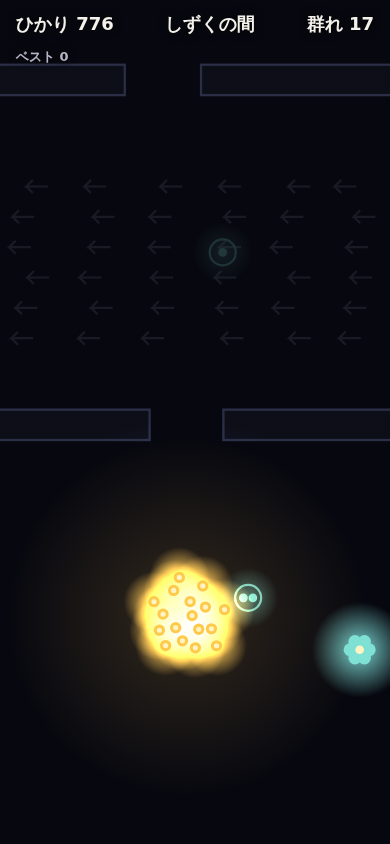
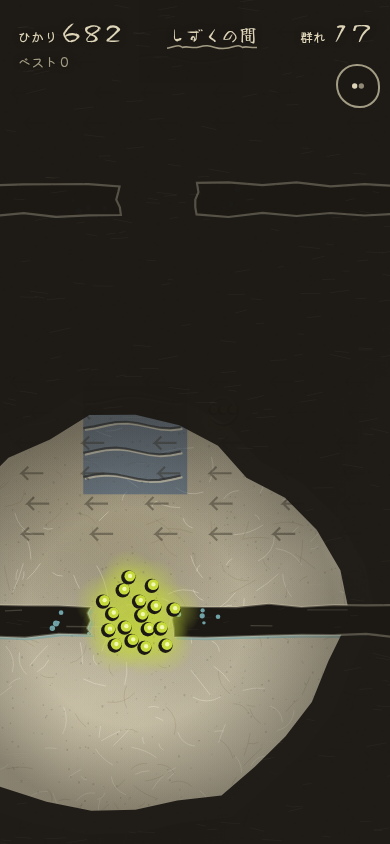
Fix HUD numeral legibility (design review blocker); refresh release pack after redesign
Claude-Session: https://claude.ai/code/session_018WYAWhY1CMpzjTxmQY8aNN

diff --git a/game/index.html b/game/index.html
@@ -32,13 +32,13 @@
   .paper button:focus-visible { outline-color:var(--shu); }
   /* HUD: 上端は常に墨の中。紙色の字 */
   .hud { display:flex; justify-content:space-between; align-items:baseline; padding:12px 18px 0; font-size:13px; text-shadow:0 0 6px var(--sumi), 0 0 2px var(--sumi); }
-  .hud .n { font-family:var(--f-disp); font-size:26px; font-variant-numeric:tabular-nums; margin-left:4px; }
+  .hud .n { font-family:var(--f-body); font-weight:500; font-size:24px; font-variant-numeric:tabular-nums; margin-left:4px; }
   #layer { font-family:var(--f-disp); font-size:18px; padding-bottom:3px; background:var(--squig) repeat-x bottom/60px 6px; }
   body:not(.playing) #hud { visibility:hidden; }
   .sub { font-size:13px; color:var(--kozo-d); }
   .hud.sub { padding-top:2px; }
   .paper .sub { color:var(--sumi-l); }
-  #t-best { font-family:var(--f-disp); font-size:16px; margin-top:2px; }
+  #t-best { font-family:var(--f-body); font-weight:500; font-size:16px; margin-top:2px; }
   /* ボタン: 通常は字だけ（筆の下線）。主役の1つだけが蛍色の版。 */
   .btn { font:inherit; font-size:17px; padding:8px 12px; border:0; background:var(--squig) repeat-x bottom 6px center/60px 6px; color:inherit; border-radius:0; }
   .paper .btn { background-image:var(--squig-k); }
@@ -81,12 +81,12 @@
   .tgl { min-width:72px !important; min-height:44px; border-radius:4px 10px 5px 9px; border:2px solid var(--sumi); background:transparent; color:var(--sumi); font:inherit; font-size:16px; }
   .tgl[aria-checked="true"] { background:var(--sumi); color:var(--kozo); box-shadow:3px 3px 0 var(--hotaru); }
   .confirm { border:2px solid #A8301C; border-radius:3px 12px 4px 10px; padding:12px; background:rgba(210,67,43,.1); } .confirm p { margin:0 0 8px; font-size:15px; line-height:1.6; }
-  .huge-num { font-family:var(--f-disp); font-size:92px; color:var(--hotaru); line-height:1; font-variant-numeric:tabular-nums; }
+  .huge-num { font-family:var(--f-body); font-weight:500; font-size:92px; color:var(--hotaru); line-height:1; font-variant-numeric:tabular-nums; }
   .newbest { display:inline-block; border:2px solid var(--shu); border-radius:3px; padding:5px 12px; font-size:15px; transform:rotate(-2.5deg); }
   .stats { margin:10px 0 0; display:flex; flex-direction:column; gap:8px; width:100%; max-width:320px; }
   .stats div { display:flex; align-items:baseline; gap:8px; font-size:15px; } .stats dt { color:var(--kozo-d); order:1; }
   .stats div::after { content:""; order:2; flex:1; border-bottom:2px dotted rgba(221,212,184,.3); }
-  .stats dd { margin:0; order:3; font-family:var(--f-disp); font-size:20px; }
+  .stats dd { margin:0; order:3; font-family:var(--f-body); font-weight:500; font-size:20px; }
   .pbtn { position:fixed; right:calc(10px + env(safe-area-inset-right)); top:calc(64px + env(safe-area-inset-top)); width:44px; height:44px; border-radius:48% 52% 46% 54%; border:2px solid var(--kozo-d); background:var(--sumi); padding:0; display:flex; align-items:center; justify-content:center; }
   body:not(.playing) .pbtn { display:none; }
   #hint { z-index:0; position:fixed; left:0; right:0; top:22%; text-align:center; font-size:18px; color:var(--kozo); text-shadow:0 0 10px var(--sumi), 0 0 4px var(--sumi); pointer-events:none; padding:0 24px; transition:opacity .4s; }

diff --git a/game/sw.js b/game/sw.js
@@ -1,5 +1,5 @@
 // オフライン対応。アセットを変えたら CACHE_VERSION を上げる。
-const CACHE_VERSION = 'v6';
+const CACHE_VERSION = 'v7';
 const ASSETS = [
   './', 'index.html', 'manifest.webmanifest', 'icons/icon.svg',
   'src/main.js', 'src/core/game.js', 'src/core/rng.js', 'src/core/loop.js', 'src/render/renderer.js',

diff --git a/studio/release-pack.md b/studio/release-pack.md
@@ -2,7 +2,7 @@
 
 - 作成: 2026-10-01 / AI相棒（PM）
 - 状態: **公開していない。オーナーの承認待ち**（main へのマージ、GitHub Pages の有効化はしていない）
-- ブランチ: `studio/flagship`（基点コミット: gate-release = 2fe12bc）
+- ブランチ: `studio/flagship`（基点コミット: gate-release = 2fe12bc、デザイン作り直し後は最新コミット）
 
 ## 一行ピッチ
 暗い洞窟を、ついてくるホタルの群れごと導いて進む。群れが大きいほど明るく高得点、でも大きいほど狭い隙間を抜けられない。
@@ -11,13 +11,18 @@
 - 中身: 5つの層（あさせ → こけの道 → しずくの間 → ねの森 → ねむりの底）。層ごとに新しい罠（風穴・水たまり・根のカーテン・黒石）が1つずつ増える。ねむり花、図鑑12種、群れの色5種の解放、ベスト記録。効果音と層ごとのBGMはコードで生成。オフラインで遊べるPWA。
 - 課金・広告・通知・アカウント・外部通信は一切なし。
 
+## 見た目（2026-10-01 作り直し）
+オーナーの方針「AIが作った感をなくす」を受けて、見た目を作り直した。題材は「墨と和紙＋蛍籠」。闇は墨で塗った和紙として描き、ホタルの光の輪の中だけ墨がぬぐわれて紙の地と繊維が見える。ホタルは実際の蛍の黄緑で、版ずれのように重ねて描く。
+- パレット: 墨 #1C1915 / 楮 #DDD4B8 / 蛍 #C6DA3C / 朱 #D2432B / 藍 #2F4F7A / 薄紅 #E8A3A0
+- 書体: Yuji Boku（題字・見出し）と Kiwi Maru（本文・数字）。使う文字だけのサブセットを同梱しているので、外部通信なしでオフラインでも表示できる（SIL OFL 1.1）。
+
 ## スクリーンショット（`studio/release-shots/`）
 | ファイル | 内容 |
 |---|---|
-| title.png | タイトル（ともす / あそびかた / ずかん / せってい、群れの色えらび） |
-| play-390x844.png / play-360x640.png / play-430x932.png | 序盤（チュートリアルの吹き出し）を3つの画面サイズで |
-| play-layer3.png | 層3「しずくの間」。群れ17匹、風穴、はぐれホタル、ねむり花 |
-| paused.png | ひとやすみ（一時停止）画面 |
+| title.png | タイトル。墨の中の紙の輪に、縦書きの題字 |
+| play-layer1.png | 層1「あさせ」。チュートリアルの吹き出し、群れ5匹 |
+| play-layer3.png | 層3「しずくの間」。群れ17匹、水たまり、風穴、隙間 |
+| result-360x640.png | リザルト（360×640） |
 
 ## 各判定の要約
 | 判定 | 担当 | 結果 | 記録 |
@@ -29,9 +34,10 @@
 | 世界観監査 | gs-worldbuilder | 表記ゆれ2件を修正。避ける表現なし | studio/reviews/world-audit.md |
 | **自動ゲート（release）** | gate_check | **PASS**（初心者ボット 中央値210点/33秒、上達者ボット 3039点/126秒、上達比 約14倍、詰まり37%、コンソールエラー0、FPS 60） | — |
 | リリースレビュー | gs-reviewer | 条件付き → ブロッカー1件（一時停止なし）を修正済み。PM がブラウザで停止・再開を確認 | studio/reviews/release.md |
-| リーガル | gs-legal | YELLOW（RED なし）。外部通信・第三者素材・個人情報・課金はなし、点滅は毎秒1.5回以下 | studio/legal/concept-check.md, release-check.md |
+| リーガル | gs-legal | YELLOW（RED なし）。外部通信・第三者素材・個人情報・課金はなし、点滅は毎秒1.5回以下。追加したフォントは GREEN（OFL の条件を満たす） | studio/legal/concept-check.md, release-check.md |
+| デザインの再レビュー | gs-reviewer（frontend-design / game-art-direction 基準） | 条件付き → **「AIが作った感」7/10**（6未満はブロッカー）。ブロッカー1件「HUD の数字が筆書体で読めない」は、数字を Kiwi Maru に替えて修正し、PM がスクショで確認 | studio/reviews/design.md |
 
-エージェント呼び出し: 15回（eco 上限20）。
+エージェント呼び出し: 18回（eco 上限20）。
 
 ## 既知の問題・未確認
 1. **実機（iPhone / Android）では未確認。** 確認はヘッドレスブラウザ（スマホ画面サイズ）だけ。ドラッグの手触り、音、振動、ホーム画面への追加は実機で見ていない。
@@ -40,6 +46,8 @@
 4. 図鑑の出現条件の数値（スコア400/3000、花5/40など）は推定値で、シミュレーションでは検証していない。
 5. 英語版はない（日本語のみ）。
 6. reviewer の改善提案（P3）のうち、360×640 以外の回転や60秒放置などは未確認。
+7. 紙の質感を入れてから、ヘッドレス計測の最低 fps が 33〜38 に下がる回がある（基準30はクリア）。古い端末での重さは未確認。
+8. フォントの原本（各書体のリポジトリの著作権表示）は、公開前に目視で確認する（法務より）。
 
 ## 公開前に人間がやること（法務より）
 - [ ] **商標の確認**: J-PlatPat で「トモシムレ」「トモシ」を区分9・41で検索する（この環境では未実施）。

diff --git a/studio/reviews/design.md b/studio/reviews/design.md
@@ -1,0 +1,29 @@
+# デザインレビュー T-041（2026-10-01）
+
+判定: 条件付き（ブロッカー 1）
+AIが作った感スコア: 7 / 10（6未満ではないので、スコア自体はブロッカーではない）
+
+## 根拠（game-art-direction 監査観点）
+- 題材とのつながり: 良い。墨と和紙、蛍籠。光の輪の中だけ紙の繊維が見える、という絵が群れ数＝視界＝得点になっている。タイトルを隠しても洞窟で光を連れるゲームと想像できる。
+- §2 の定番: 紺黒＋ネオンには当たらない。ただし「ほぼ黒の地＋黄緑1色」は frontend-design の定番2に近い。紙の輪の面積、藍の水、朱の罠、版ずれで逃げている。プレイ画面の上半分は何もない墨で、緑が目立つ分だけ定番寄りに見える。これが -1。
+- 書体: Yuji Boku（題字・数字）と Kiwi Maru（本文）の2書体で役割が分かれている。題字の縦書きと手ぬりの紙の輪は人の手を感じる。
+- 人の手の跡: 版ずれ（輪の影、ホタルの輪郭）、岩の縁のがたつき、紙の繊維、波線の下線、不揃いなボタン角。十分ある。
+- 残る「らしさ」: 色選びの丸が 5 つ同じ大きさで並ぶ所と、画面下の細い字（ベスト）が少し既製品っぽい。改善推奨。
+
+## ブロッカー
+### B1 HUD の数字が読み取りにくい（担当 gs-designer / game/index.html）
+- 再現: プレイ中のスクショ（studio/.gate/rel2/2-play-l1.png、dm2/viewport-360x640.png）。「群れ 5」の 5 は S に見える。「ひかり 25」は「2S」、「72」は「ノ2」に読める。Yuji Boku の数字は筆の勢いが強く、字形が崩れすぎていて、遊びながら一瞬で読む用途に合わない。PM の懸念は正しい。
+- 修正案（どれか）: HUD の数字（#score, #count、できれば #t-best）だけ Kiwi Maru 500 に変える。Yuji Boku は題字・層名・リザルトの大数字に残す。数字が 5 と 2 と 7 で形が分かれて見えることを確認する。
+- 確認方法: `grep -n "\.hud \.n" game/index.html` で font-family が --f-disp でないこと。`node .claude/game-studio/scripts/playtest.mjs --runs 1 --seconds 20 --shots --out studio/.gate/rv` のスクショで、PM が 360×640 の実機表示で「5」「2」「7」を 1 秒以内に読めること。gate_check --gate release が PASS のままであること。
+
+## 改善推奨（通してよい）
+- 判別性: 光の外の岩は紙色の細線で見え、罠は形（藍の波線の矩形、矢羽根、尖った帯）も持つ。色だけに頼っていない。はぐれの二重の輪は、深い層のスクショ（群れ17匹）では確認できなかった。レビュー範囲の画面では判別不能な物はなかった。
+- 輪の外では罠（藍の水）が薄れて見える。層3の水たまりは輪の縁近くでも波線が読めたので許容。
+- 性能: 紙・ざらつきは resize 時の 1 回描画で、毎フレームは drawImage 2 回。重い処理は輪の evenodd クリップ 2 回と、ホタルごとの小さな drawImage（最大40）のみ。getImageData やフィルタはなし。コード上の懸念はない。実機 fps は未計測（低性能端末で確認推奨）。
+- 画面のプレイ中、上半分が空のまま。ガイド文（「すきまは せまい…」）は読みやすいが、紙の輪から離れて浮く。位置を輪に近づけると良い。
+
+## 良かった点（修正で壊さない）
+- タイトルの縦書き題字＋手ぬりの紙の輪＋蛍色の主役ボタン 1 つ。カードの繰り返しなし。
+- 光の輪の縁の手ぬり形と、紙の繊維の見え方。
+- 副次ボタンの波線下線、判子型トグル。
+- 同梱フォント（外部通信なし）とフォールバック。

diff --git a/studio/STATUS.md b/studio/STATUS.md
@@ -13,9 +13,11 @@
 | 3 | 2 | coder 1（スライス実装）, playtester 1（PASS） |
 | 4 | 5 | content-creator 1, sound 1, design-manager 1, coder 1, worldbuilder 1（監査） |
 | 5 | 3 | reviewer 1, legal 1, coder 1（ブロッカー修正＋README） |
-| 合計 | 15 | |
+| 6 | 3 | design-manager 1（作り直し）, reviewer 1（AIが作った感 7/10）, legal 1（フォント GREEN） |
+| 合計 | 18 | 上限20の9割。以後は追加呼び出しを最小にする |
 
 ## 直近でやったこと
+- オーナー方針でデザインを作り直した（墨と和紙＋蛍籠、Yuji Boku / Kiwi Maru を同梱）。reviewer 7/10、HUD の数字のブロッカーは PM が修正。gate release PASS。release-pack 更新
 - Phase 5 完了: gate_check --gate release PASS、reviewer のブロッカー（一時停止）修正、legal YELLOW（RED なし）。基点 gate-release = 2fe12bc
 - Phase 6: studio/release-pack.md を作成して停止（公開・main マージはしない）
 - Phase 4 完了: 罠4種・ねむり花・図鑑・保存・チュートリアル・音・画面。gate_check --gate release PASS（初心者 210点/33秒、上達者 3039点/126秒）
